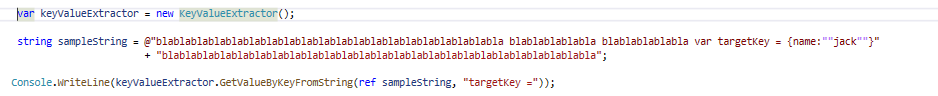
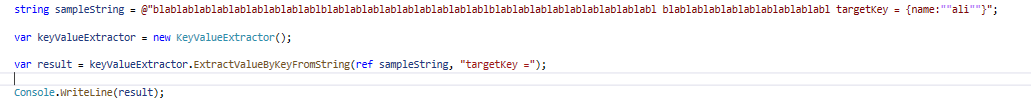
Changed keyvalueExtractor method name.

diff --git a/StringFighter.StringExtractors/KeyValueExtractor.cs b/StringFighter.StringExtractors/KeyValueExtractor.cs
@@ -33,7 +33,7 @@ namespace StringFighter.StringExtractors
         /// <param name="key">target value's key.</param>
         /// <exception cref="System.ArgumentNullException"
         /// <exception cref="System.ArgumentOutOfRangeException"
-        public string GetValueByKeyFromString(ref string source, string key)
+        public string ExtractValueByKeyFromString(ref string source, string key)
         {
             if (source is null)
                 throw new ArgumentNullException(nameof(source));
